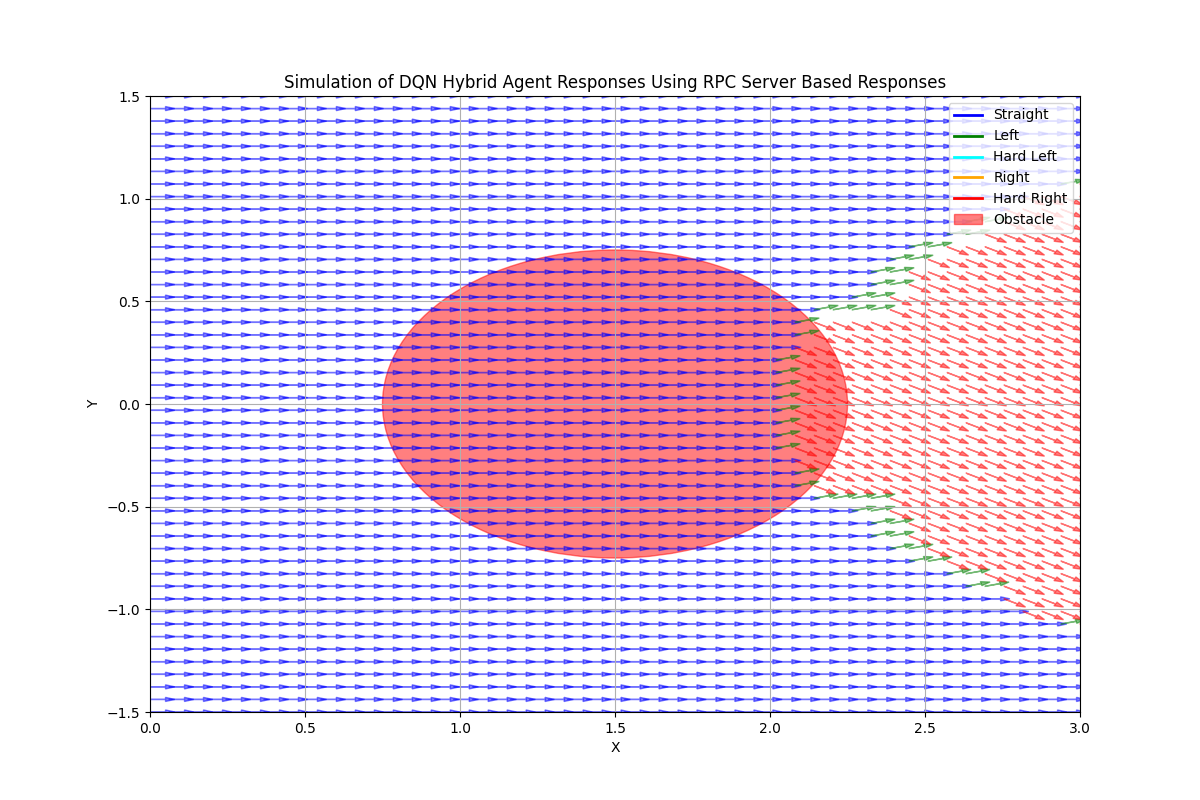
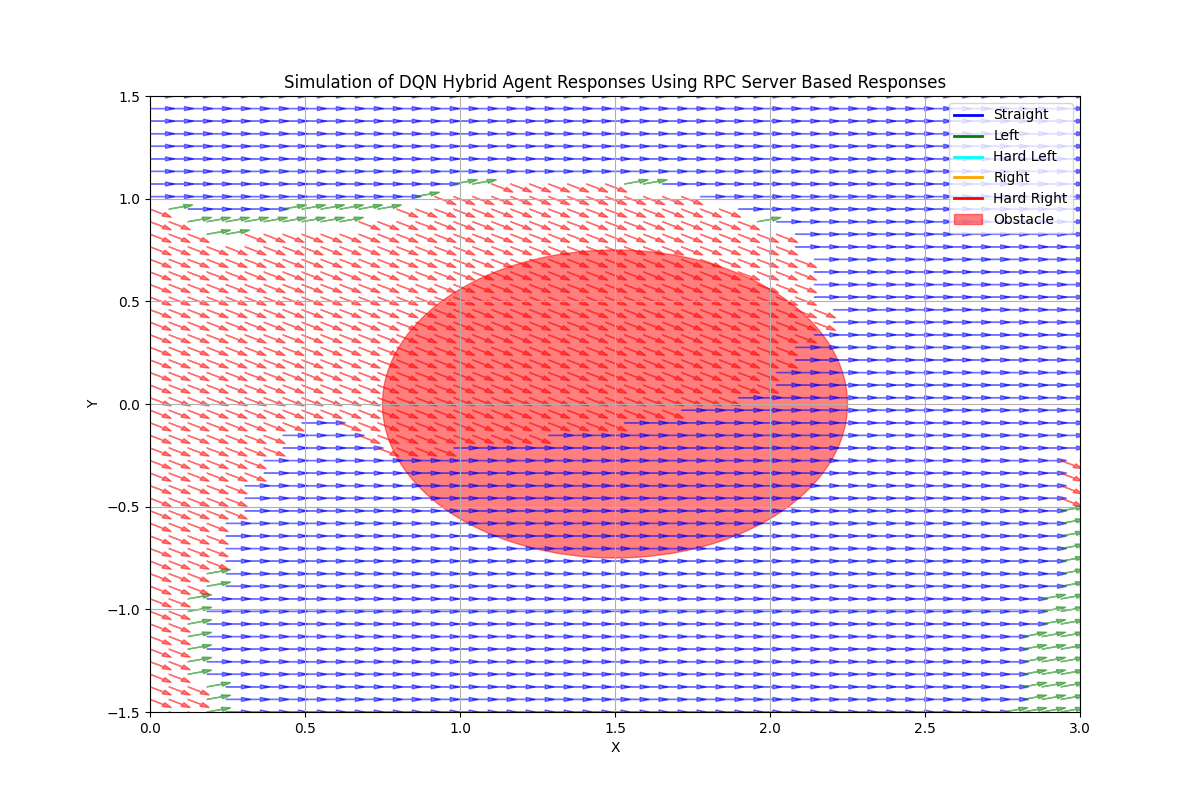
modified predict to debug

Changed region(s): [[0.1233, 0.2188, 0.925, 0.9062]]

diff --git a/src/rl_policy/training_tools.py b/src/rl_policy/training_tools.py
@@ -305,8 +305,10 @@ class HyRL_agent:
         self.M_ext1 = M_ext1
         self.q = q_init
 
-    def predict(self, state):
+
+    def predict(self, obs):  # Change to accept obs directly
         switch = -10
+        state = obs[:2]  # Extract [x, y] if obs is augmented
         if self.q == 0:
             if self.M_ext0.in_M_ext(state):
                 active_agent = self.agent_0
@@ -314,7 +316,6 @@ class HyRL_agent:
                 switch = 1
                 self.q = 1
                 active_agent = self.agent_1
-
         elif self.q == 1:
             if self.M_ext1.in_M_ext(state):
                 active_agent = self.agent_1
@@ -322,9 +323,7 @@ class HyRL_agent:
                 switch = 1
                 self.q = 0
                 active_agent = self.agent_0
-        action, _ = active_agent.predict(
-            state_to_observation_OA(state), deterministic=True
-        )
+        action, _ = active_agent.predict(obs, deterministic=True)  # Use obs directly
         return action, switch
 
 
